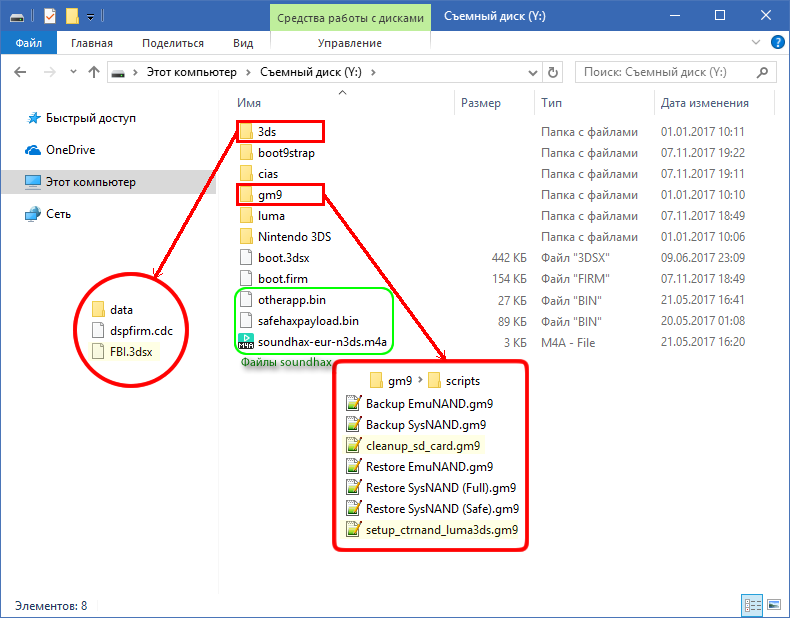
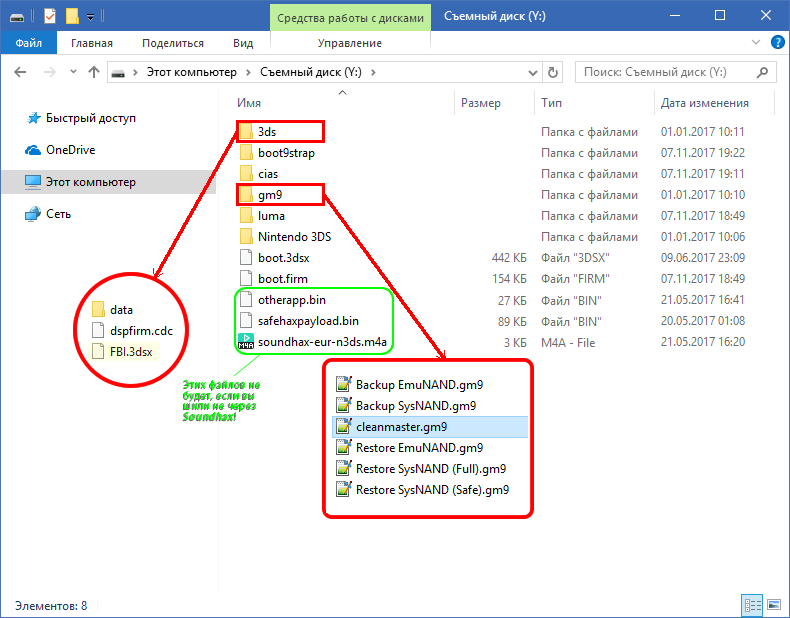
bugfixes

Changed region(s): [[0.2127, 0.5534, 0.6987, 0.8916]]

diff --git a/_pages/finalizing-setup.md b/_pages/finalizing-setup.md
@@ -36,7 +36,6 @@ author_profile: true
 * Свежая версия [Anemone3DS](https://github.com/astronautlevel2/Anemone3DS/releases/latest){:target="_blank"} *(`.cia`-файл)*
 * Свежая версия [GodMode9](https://github.com/d0k3/GodMode9/releases/latest){:target="_blank"} *(`.zip`-архив)*
 * [`cleanmaster.gm9`]({{ "/gm9_scripts/cleanmaster.gm9" | absolute_url }}){:target="_blank"}
-* [`Backup_SysNAND.gm9`]({{ "/gm9_scripts/Backup_SysNAND.gm9" | absolute_url }}){:target="_blank"}
 
 ## Инструкция
 
@@ -64,8 +63,6 @@ author_profile: true
 1. Скопируйте `GodMode9.firm` из `.zip-архива` GodMode9 в папку `/luma/payloads/` на SD-карте
 1. Скопируйте папку `gm9` из `.zip-архива` `GodMode9` в корень SD-карты
 1. Скопируйте `cleanmaster.gm9` в папку `/gm9/scripts/` на SD-карте
-1. Скопируйте `Backup_SysNAND.gm9` в папку `/gm9/scripts/` на SD-карте
-
 
     ![]({{ "/images/screenshots/finalizing-setup-file-layout.png" | absolute_url }}){:target="_blank"}
 	{: .text-center}

diff --git a/_pages/b9s/installing-boot9strap-ntrboot.md b/_pages/b9s/installing-boot9strap-ntrboot.md
@@ -65,7 +65,7 @@ author_profile: true
 		1. Выполните следующую часть (Установка boot9strap)
 		1. Удалите из корня SD-карты `boot.firm` (SafeB9SInstaller)
 		1. `_boot.firm` переименуйте обратно в `boot.firm`.
-			+ Зачем такие сложности? Метод, который написано в гайде изначально позволяет провести всю установку не дергая ту3да-сюда карту памяти. 
+			+ Зачем такие сложности? Метод, который написано в гайде изначально позволяет провести всю установку не дёргая туда-сюда карту памяти. 
 
 ### Часть IV - Установка boot9strap
 

diff --git a/_pages/home.md b/_pages/home.md
@@ -7,7 +7,7 @@ header:
   overlay_image: images/home-page-feature.jpg
   overlay_filter: 0.5
   caption:
-excerpt: 'Полное руководство по прошивке 3DS, от начала до boot9strap.<br />**Последнее изменение:** 12 мая 2018'
+excerpt: 'Полное руководство по прошивке 3DS, от начала до boot9strap.<br />**Последнее изменение:** 15 мая 2018'
 ---
 
 {% include toc title="Разделы" %}
